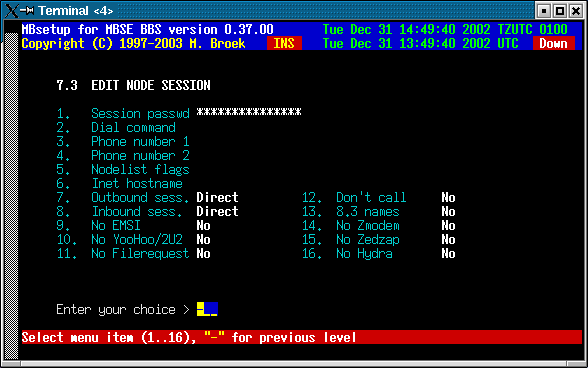
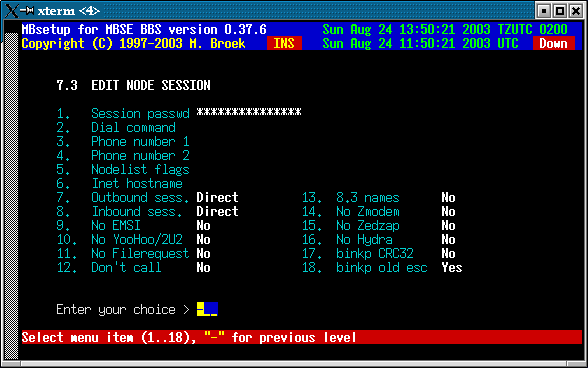
Updated documentation

diff --git a/html/programs/mbmon.html b/html/programs/mbmon.html
@@ -12,10 +12,8 @@
 </HEAD>
 <BODY>
 <BLOCKQUOTE>
-<h5>Last update 04-Jul-2002</h5>
-<P>&nbsp;<P>
-
-<H1>mbmon - MBSE BBS Monitor</H1>
+<h5 div align=right>Last update 24-Aug-2003</h5>
+<H1 div align=center>mbmon - MBSE BBS Monitor</H1>
 <P>
 
 <H3>Sysnopsis.</H3>
@@ -28,7 +26,11 @@
 <strong>mbmon</strong> is the monitor program so that you can see what is
 happening on your bbs. It can show all processes and actions of all programs,
 show system statitistics, disk useage, and the last callers list. 
-<strong>mbmon</strong> must run on the same system where the bbs is.
+<strong>mbmon</strong> must run on the same system where the bbs is. When
+started it will also report that the sysop is present on the system for chat so
+that users of your bbs can page you for a chat. If a user pages you, this will
+be shown in every screen of <strong>mbmon</strong> and a beep will sound every
+few seconds.
 <P>&nbsp;<P>
 
 <H3>Environment.</H3>
@@ -49,7 +51,7 @@ This screen displays the actual mbtask server status and some internal
 variables. The left side of the screen are more statistics and counters, the
 right side displays the actual bbs open status, Zone Mail Hour status, if
 Internet is alive, if internet is needed, if mbtask is internal running and the
-system load average.
+system load average. Consult this screen if you think mbse doesn't run.
 <P>&nbsp;<P>
 
 <H3>Menu 3.</H3>
@@ -74,6 +76,21 @@ messages, <b>C</b>hat, <b>O</b>ffline reader, <b>E</b>xternal door.
 <P>&nbsp;<P>
 
 <H3>Menu 6.</H3>
+<P>
+Chat with any user. Using this menu you enter the chatserver and you can chat in
+any channel just as the users of your bbs can do. The chatserver works just like
+an IRC server. Type /HELP for help.
+<P>&nbsp;<P>
+
+<H3>Menu 7.</H3>
+<P>
+Respond to a sysop page. This is actually the same as chat with any user, the
+only difference is that you will join channel #sysop immediatly. If the user is
+not yet connected after his page, he will also be connected to the channel as
+soon as possible.
+<P>&nbsp;<P>
+
+<H3>Menu 8.</H3>
 <P>
 This shows the software information.
 <P>

diff --git a/html/setup/nodes.html b/html/setup/nodes.html
@@ -12,7 +12,7 @@
 </HEAD>
 <BODY>
 <BLOCKQUOTE>
-<div align=right><h5>Last update 31-Dec-2002</h5></div>
+<div align=right><h5>Last update 24-Aug-2003</h5></div>
 
 <div align=center><H1>MBSE BBS Setup - Fidonet nodes.</H1></div>
 <P>
@@ -130,6 +130,13 @@ protocol.</td></tr>
 protocol.</td></tr>
 <tr><th nowrap align=left valign=top>No Hydra</th><td>Disable Hydra
 protocol.</td></tr>
+<tr><th nowrap align=left valign=top>Binkp CRC32</th><td>Enable CRC32 file
+transfer checks.</td></tr>
+<tr><th nowrap align=left valign=top>Binkp old esc</th><td>Some systems followed
+the wrong character escape method as published in FSP-1011 revision 3. For these
+systems turn this flag on or you won't be able to send long filenames with
+spaces in the name or other special characters. Such known systems are Argus and
+Irex upto 2.29. Others may exist, even some older mbse versions.
 </table>
 <p>
 <IMG SRC="../images/nodes3.png">

diff --git a/html/setup/global.html b/html/setup/global.html
@@ -12,7 +12,7 @@
 </HEAD>
 <BODY>
 <BLOCKQUOTE>
-<div align="right"><h5>Last update 29-Jul-2003</h5></div>
+<div align="right"><h5>Last update 24-Aug-2003</h5></div>
 
 <div align="center"><H1>MBSE BBS Setup - Global Setup</H1></div>
 <P>
@@ -361,6 +361,7 @@ XX,CM and TCP/IP systems (internet) should use the XX,CM,IBN,IFC flags.
 <strong>No Zedzap         </strong>Disable zedzap protocol
 <strong>No Hydra          </strong>Disable Hydra protocol
 <strong>No MD5            </strong>Disable binkp MD5 passwords
+<strong>No CRC32          </strong>Disable binkp CRC32 support
 <strong>Phonetrans 1..40  </strong>Maximum 40 phone number translations
 <strong>Max. files        </strong>Maximum files to request, 0 is unlimited 
 <strong>Max. MBytes       </strong>Maximum MBytes to request, 0 is unlimited
